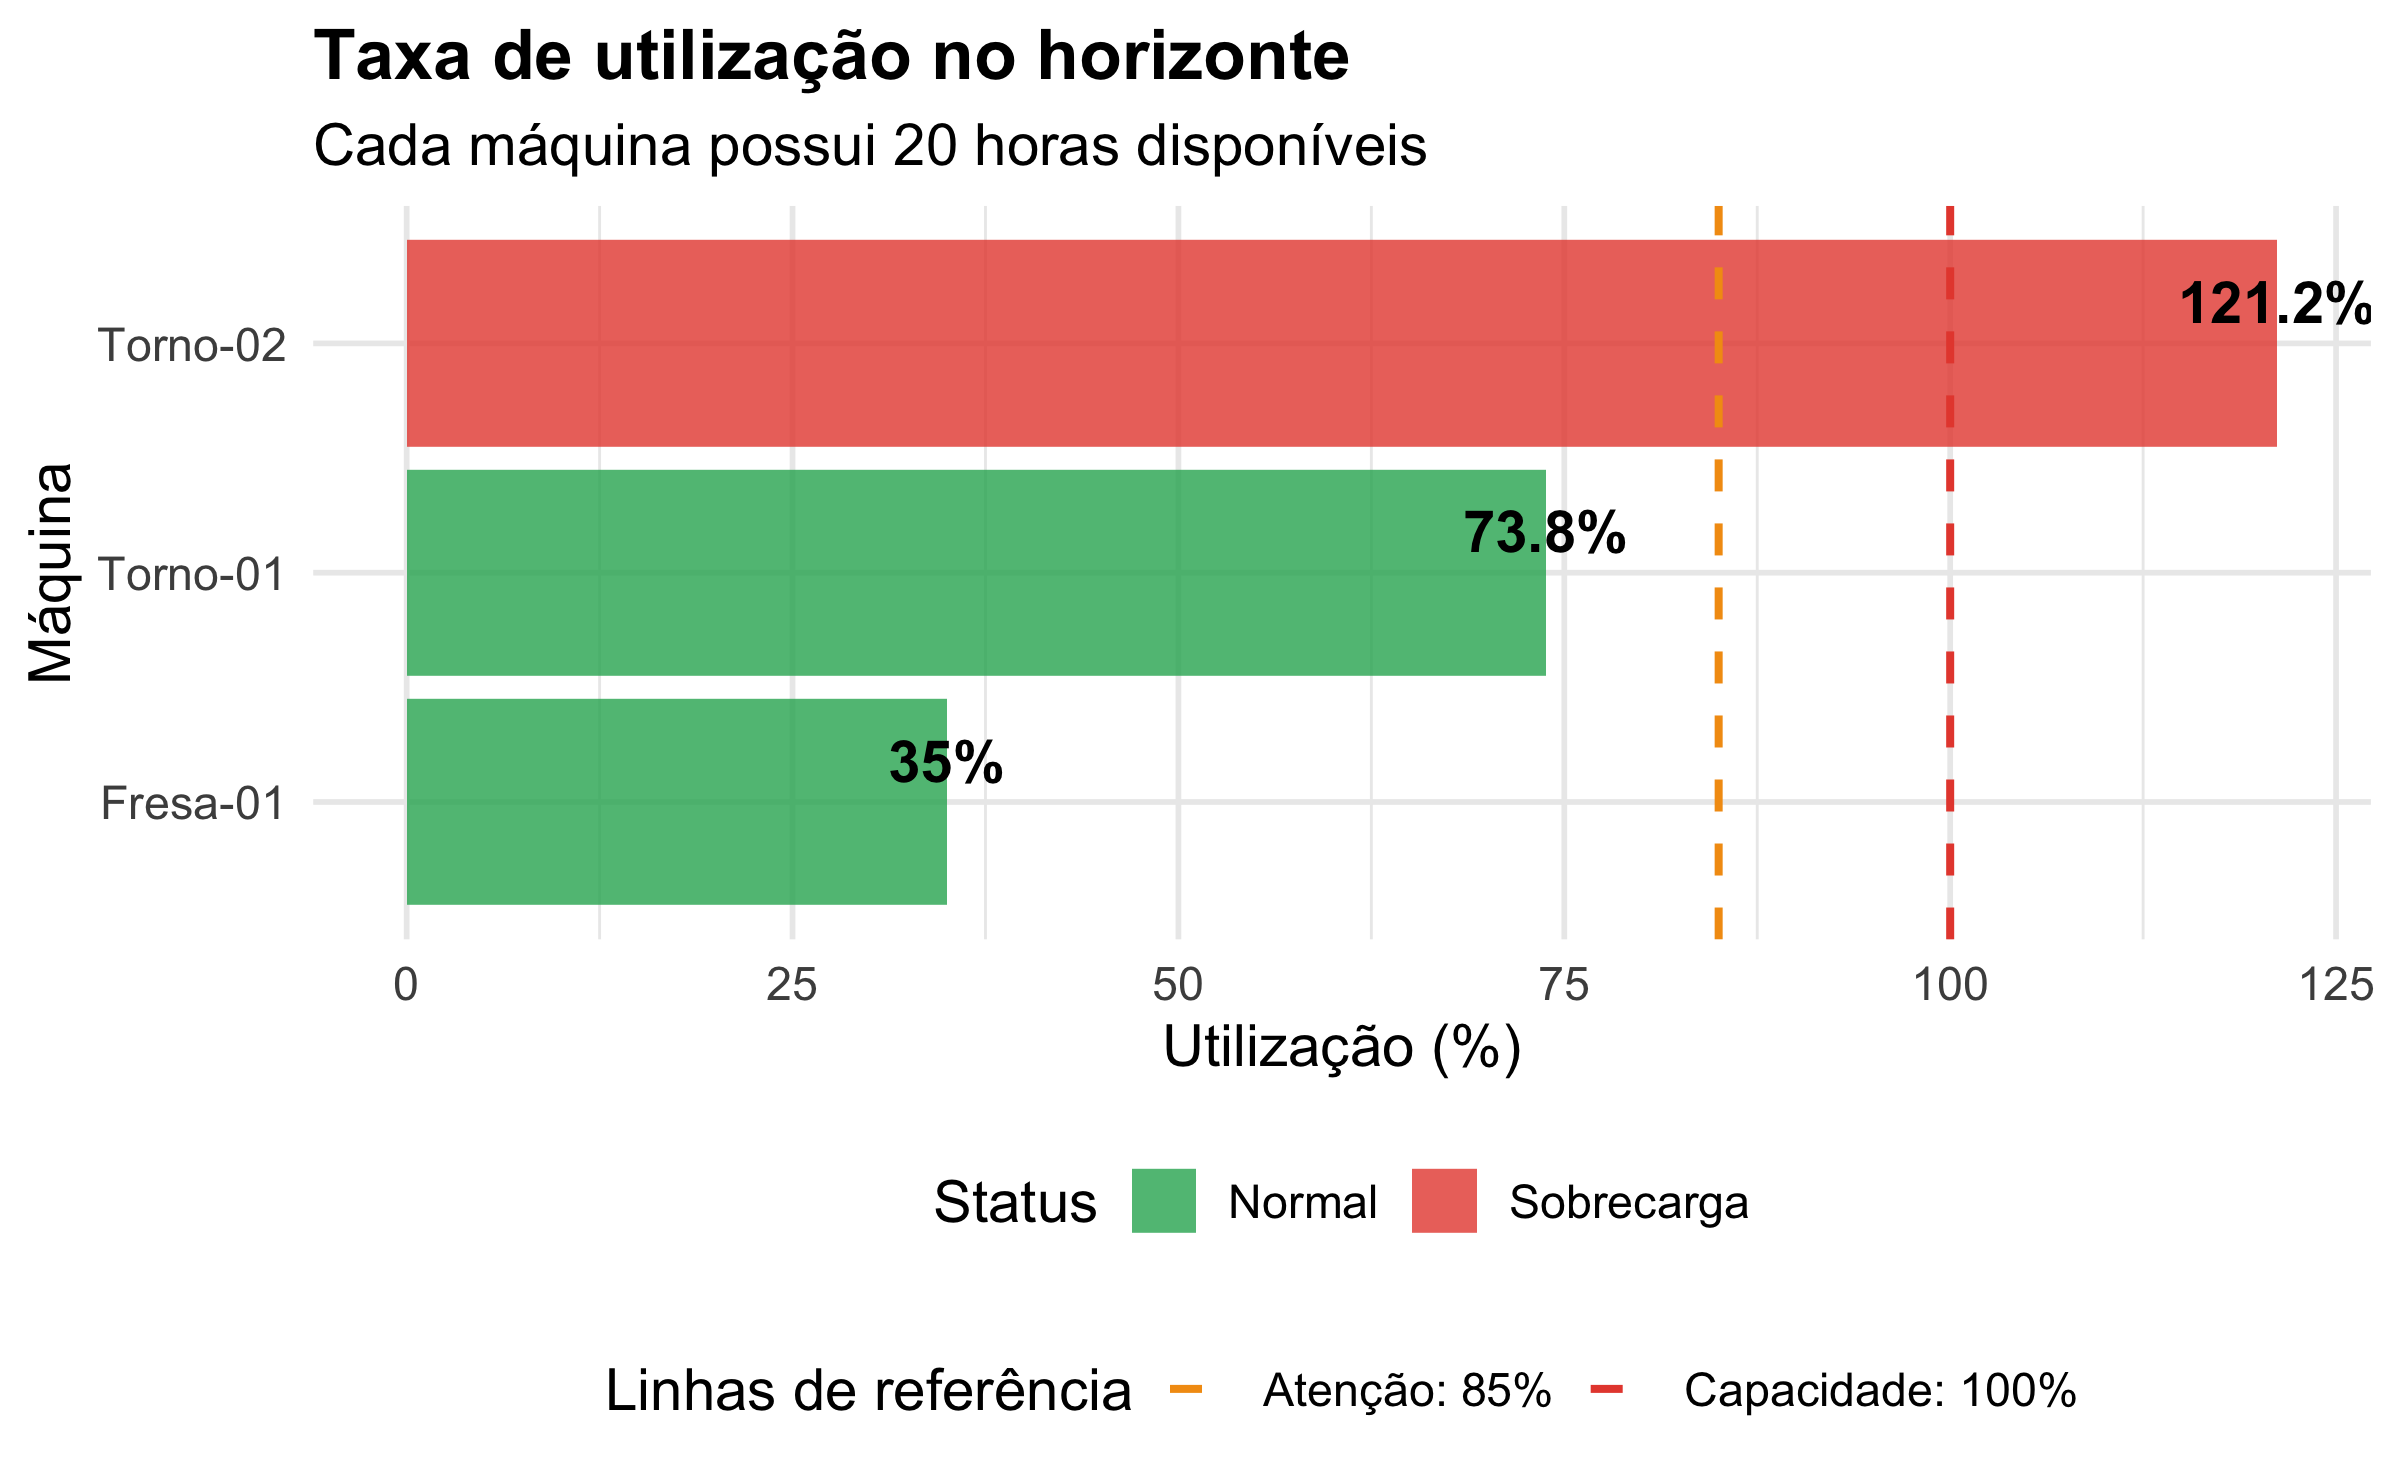
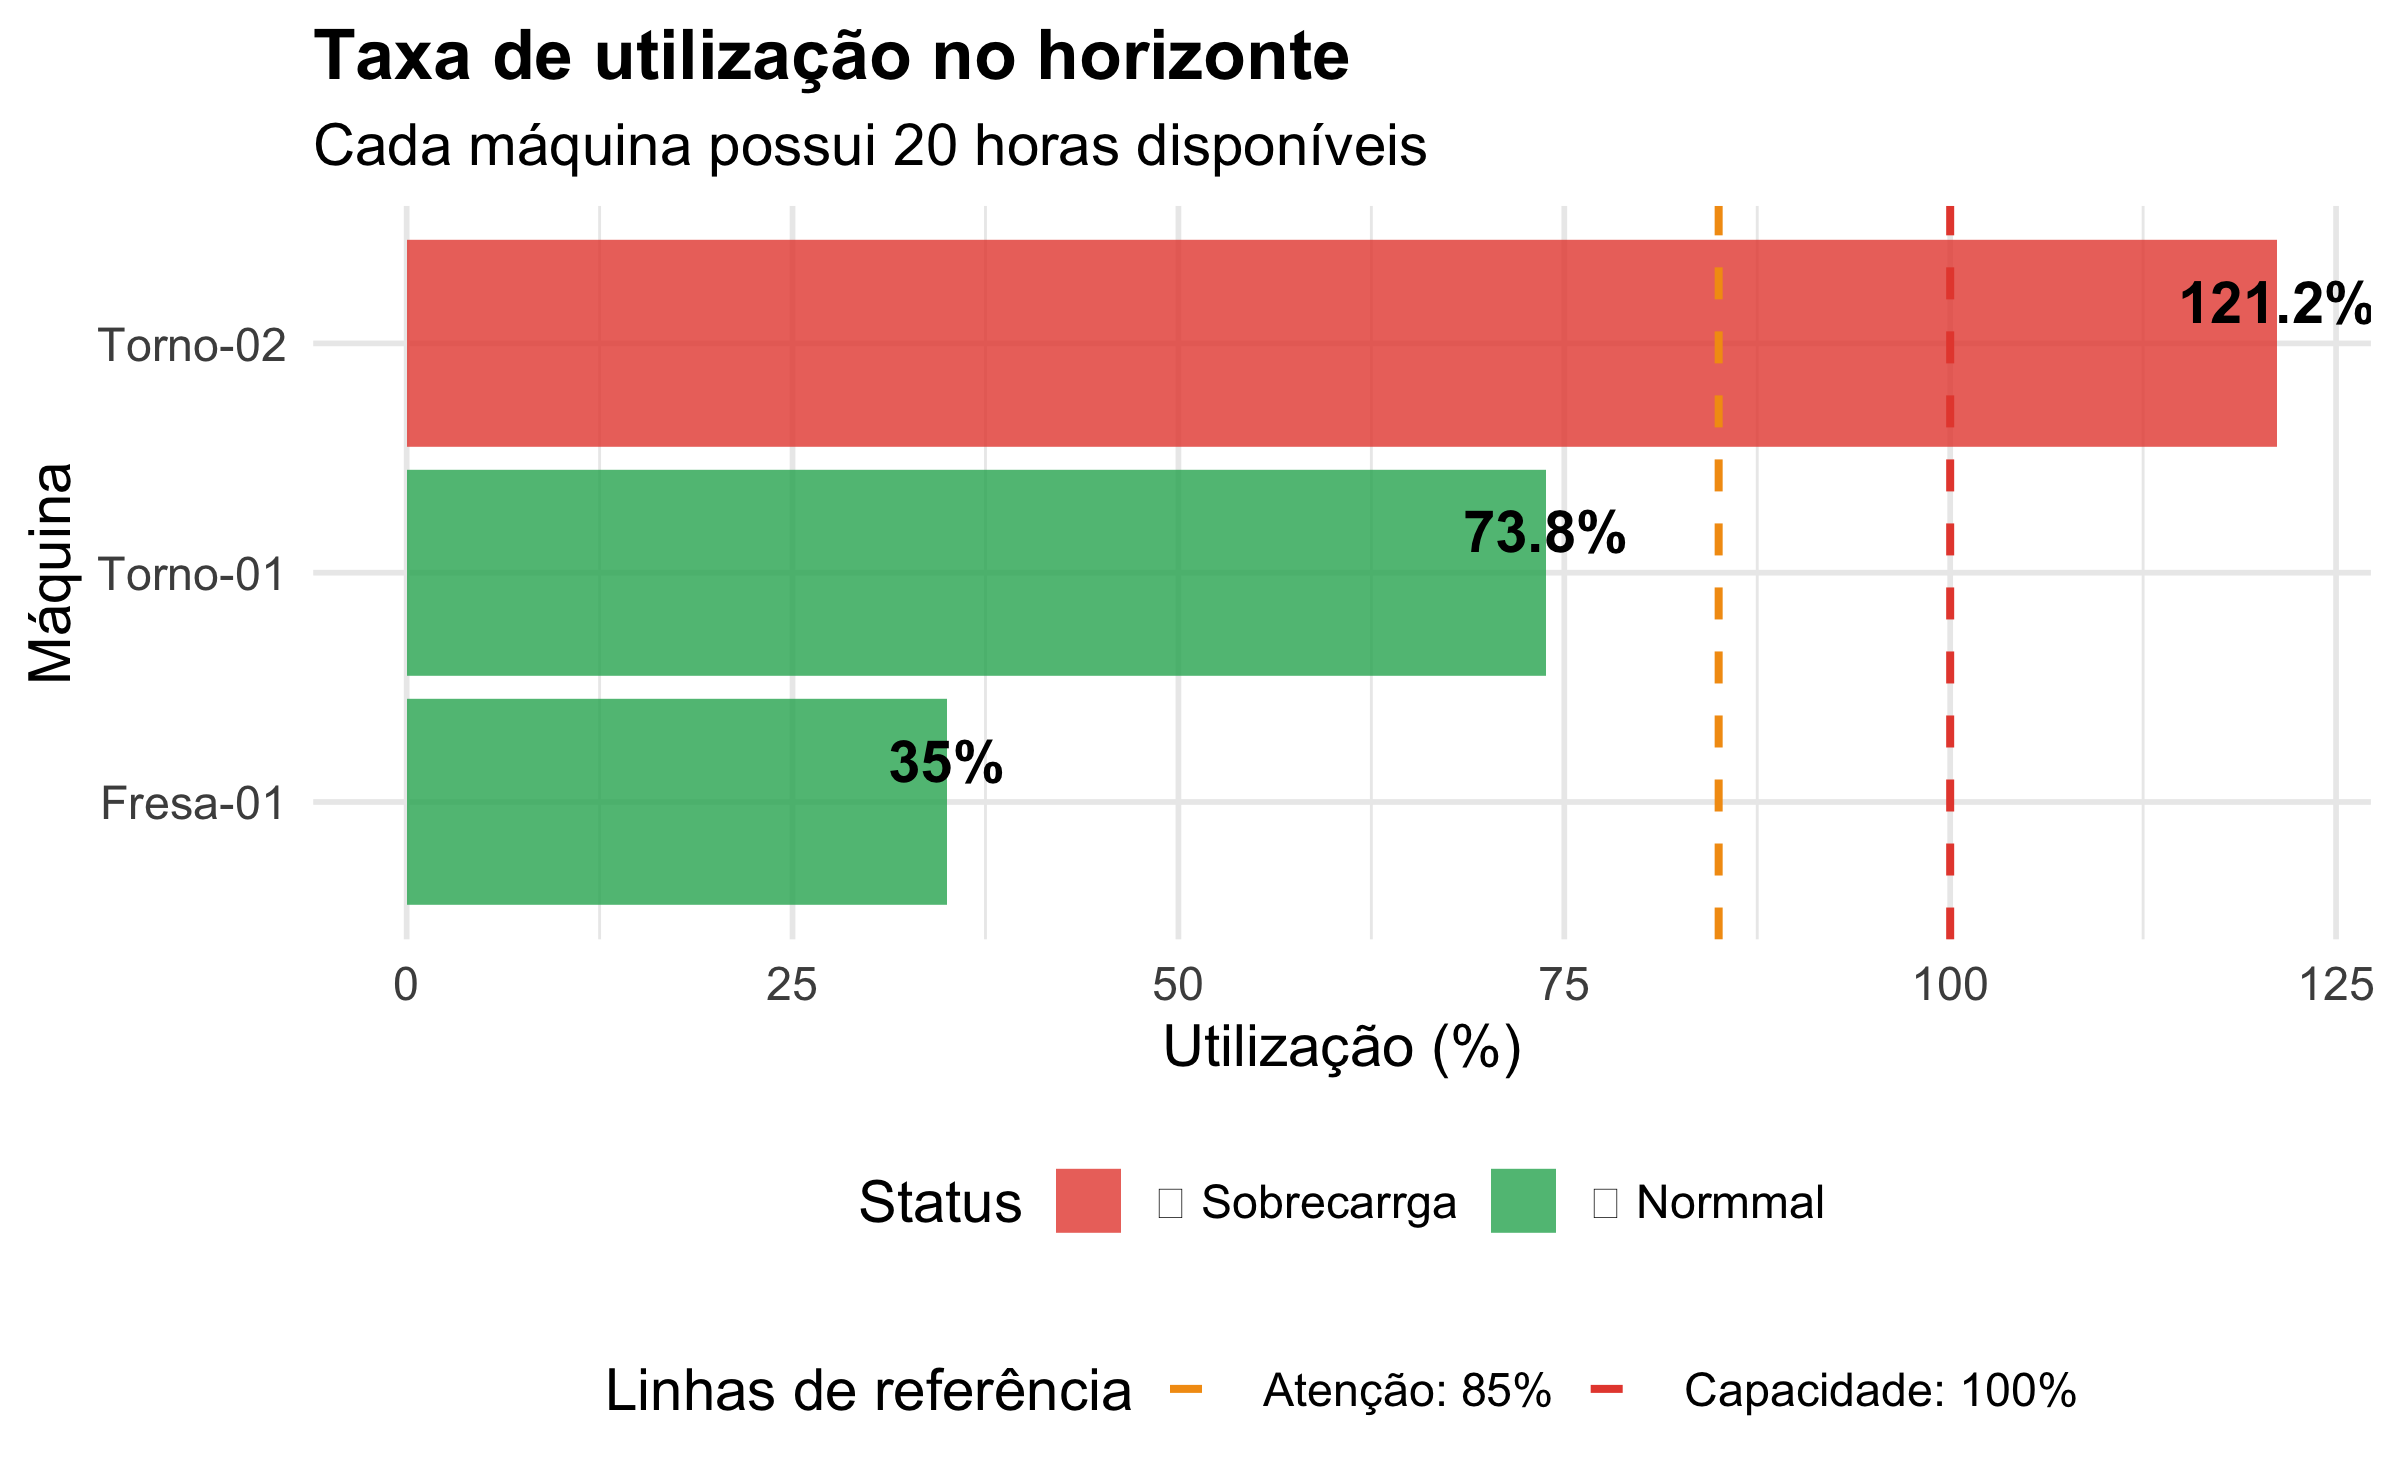
aula7

Changed region(s): [[0.3438, 0.7755, 0.75, 0.8375]]

diff --git a/index.html b/index.html
@@ -11,7 +11,7 @@
     <script src="libs/panelset/panelset.js"></script>
     <link href="libs/tile-view/tile-view.css" rel="stylesheet" />
     <script src="libs/tile-view/tile-view.js"></script>
-    <script type="application/json" id="xaringanExtra-editable-docid">{"id":"c66006e7e0d443c4bb6136cabe2f56c1","expires":1}</script>
+    <script type="application/json" id="xaringanExtra-editable-docid">{"id":"ee6c35f41b4d4fdb9b4bb5933024c414","expires":1}</script>
     <script src="libs/himalaya/himalaya.js"></script>
     <script src="libs/js-cookie/js.cookie.js"></script>
     <link href="libs/editable/editable.css" rel="stylesheet" />
@@ -115,11 +115,11 @@ Programação operacional. Máquina livre não basta: precedência, material, fe
 .pull-left[
 ## Ao final da aula
 
-- interpretar um roteiro de produção;
-- calcular carga por ordem e por máquina;
-- aplicar FIFO, MTP, MDE e MFE;
-- comparar fluxo, atraso e utilização;
-- recomendar uma programação coerente com o objetivo.
+- ✅ interpretar um roteiro de produção;
+- ✅ calcular carga por ordem e por máquina;
+- ✅ aplicar FIFO, MTP, MDE e MFE;
+- ✅ comparar fluxo, atraso e utilização;
+- ✅ recomendar uma programação coerente com o objetivo.
 
 ]
 
@@ -318,15 +318,15 @@ Processo de **determinar a ordem** em que os trabalhos/tarefas serão processado
 ## Objetivos Principais:
 
 .pull-left[
-- **Minimizar tempo total** (makespan)
-- **Cumprir prazos** de entrega
-- **Reduzir custos** de estoque
+- ⏱ **Minimizar tempo total** (makespan)
+- 📅 **Cumprir prazos** de entrega
+- 💰 **Reduzir custos** de estoque
 ]
 
 .pull-right[
-- **Maximizar utilização** de máquinas
-- **Balancear carga** de trabalho
-- **Minimizar atrasos**
+- ⚙ **Maximizar utilização** de máquinas
+- 📊 **Balancear carga** de trabalho
+- 🎯 **Minimizar atrasos**
 ]
 
 ---
@@ -774,7 +774,7 @@ Onde:
    &lt;td style="text-align:right;"&gt; 7.00 &lt;/td&gt;
    &lt;td style="text-align:right;"&gt; 20 &lt;/td&gt;
    &lt;td style="text-align:right;"&gt; 35.0 &lt;/td&gt;
-   &lt;td style="text-align:left;"&gt; Normal &lt;/td&gt;
+   &lt;td style="text-align:left;"&gt; 🟢 Normal &lt;/td&gt;
   &lt;/tr&gt;
   &lt;tr&gt;
    &lt;td style="text-align:left;font-weight: bold;white-space: nowrap;"&gt; Torno-01 &lt;/td&gt;
@@ -784,7 +784,7 @@ Onde:
    &lt;td style="text-align:right;"&gt; 14.75 &lt;/td&gt;
    &lt;td style="text-align:right;"&gt; 20 &lt;/td&gt;
    &lt;td style="text-align:right;"&gt; 73.8 &lt;/td&gt;
-   &lt;td style="text-align:left;"&gt; Normal &lt;/td&gt;
+   &lt;td style="text-align:left;"&gt; 🟢 Normal &lt;/td&gt;
   &lt;/tr&gt;
   &lt;tr&gt;
    &lt;td style="text-align:left;font-weight: bold;white-space: nowrap;"&gt; Torno-02 &lt;/td&gt;
@@ -794,7 +794,7 @@ Onde:
    &lt;td style="text-align:right;"&gt; 24.25 &lt;/td&gt;
    &lt;td style="text-align:right;"&gt; 20 &lt;/td&gt;
    &lt;td style="text-align:right;"&gt; 121.2 &lt;/td&gt;
-   &lt;td style="text-align:left;"&gt; Sobrecarga &lt;/td&gt;
+   &lt;td style="text-align:left;"&gt; 🔴 Sobrecarga &lt;/td&gt;
   &lt;/tr&gt;
 &lt;/tbody&gt;
 &lt;/table&gt;&lt;/div&gt;
@@ -843,20 +843,20 @@ Possivelmente. Os dois produtos aparecem nos dois tornos. Confirmar programa CNC
 
 .pull-left[
 ### Quando há Sobrecarga:
-- **Realocação** de ordens
-- **Horas extras** programadas
-- **Subcontratação** externa
-- **Reprogramação** de prazos
-- **Investimento** em capacidade
+- 🔄 **Realocação** de ordens
+- ⏰ **Horas extras** programadas
+- 👥 **Subcontratação** externa
+- 📅 **Reprogramação** de prazos
+- 🆕 **Investimento** em capacidade
 ]
 
 .pull-right[
 ### Quando há Ociosidade:
-- **Antecipação** de produção
-- **Manutenção preventiva**
-- **Treinamento** de equipe
-- **Melhorias** de processo
-- **Busca** de novos pedidos
+- 📦 **Antecipação** de produção
+- 🔧 **Manutenção preventiva**
+- 📚 **Treinamento** de equipe
+- 🎯 **Melhorias** de processo
+- 🔍 **Busca** de novos pedidos
 ]
 
 ---
@@ -1216,15 +1216,15 @@ Uma fábrica recebeu cinco pedidos urgentes que devem passar por três máquinas
 
 .midi[
 ## Recomendações:
-- Reduzir setup em M1 libera margem para novas ordens.
-- Hora extra não é necessária pela carga agregada deste caso.
-- O programa ainda deve verificar conflitos simultâneos e precedências entre máquinas.
+- ✅ Reduzir setup em M1 libera margem para novas ordens.
+- ✅ Hora extra não é necessária pela carga agregada deste caso.
+- ✅ O programa ainda deve verificar conflitos simultâneos e precedências entre máquinas.
 ]
 
 ---
 
 
-# Ferramentas e alcance da programação
+# 🔧 Ferramentas e alcance da programação
 
 | Ferramenta | Uso adequado | Limitação principal |
 |---|---|---|
@@ -1242,33 +1242,33 @@ Uma fábrica recebeu cinco pedidos urgentes que devem passar por três máquinas
 .midi[
 .pull-left[
 ## Planejamento
-- **Dados precisos:** tempos, capacidades e restrições
-- **Comunicação:** integração entre PCP, produção e vendas
-- **Flexibilidade:** contingências previstas
-- **Documentação:** registro de decisões e mudanças
+- ✅ **Dados precisos:** tempos, capacidades e restrições
+- ✅ **Comunicação:** integração entre PCP, produção e vendas
+- ✅ **Flexibilidade:** contingências previstas
+- ✅ **Documentação:** registro de decisões e mudanças
 
 ## Execução
-- **Monitoramento:** acompanhar o progresso real
-- **Agilidade:** reagir a imprevistos
-- **Priorização:** concentrar atenção no trabalho crítico
+- ✅ **Monitoramento:** acompanhar o progresso real
+- ✅ **Agilidade:** reagir a imprevistos
+- ✅ **Priorização:** concentrar atenção no trabalho crítico
 ]
 
 .pull-right[
 ## Análise
-- **KPIs claros:** utilização e pontualidade
-- **Revisões:** analisar desvios periodicamente
-- **Melhoria contínua:** ajustar métodos
+- ✅ **KPIs claros:** utilização e pontualidade
+- ✅ **Revisões:** analisar desvios periodicamente
+- ✅ **Melhoria contínua:** ajustar métodos
 
 ## Tecnologia
-- **Automatização:** reduzir trabalho manual
-- **Integração:** conectar os sistemas envolvidos
-- **Visualização:** acompanhar o programa em tempo real
-- **Contingência:** manter alternativas preparadas
+- ✅ **Automatização:** reduzir trabalho manual
+- ✅ **Integração:** conectar os sistemas envolvidos
+- ✅ **Visualização:** acompanhar o programa em tempo real
+- ✅ **Contingência:** manter alternativas preparadas
 ]
 ]
 ---
 
-# Principais KPIs
+# 📊 Principais KPIs
 &lt;table class="kpi-table table table-striped table-hover" style="font-size: 27px; margin-left: auto; margin-right: auto;"&gt;
  &lt;thead&gt;
   &lt;tr&gt;
@@ -1353,18 +1353,18 @@ Uma meta única, como 80%, pode induzir decisões inadequadas. O gargalo determi
 # Conceitos centrais
 .midi[
 .pull-left[
-## Roteiro de produção
+## 📋 Roteiro de produção
 - Documento técnico que define **sequência**, **máquinas**, **tempos** e **precedências**
 - Base para planejamento e controle
 - Deve ser mantido atualizado
 
-## Sequenciamento
+## 🔢 Sequenciamento
 - Ordem de execução das tarefas
 - Regras: **MTP**, **FIFO**, **MDE** e **MFE**
 - Impacto direto em **prazos** e **custos**
 ]
 .pull-right[
-## Carga de máquinas
+## ⚙ Carga de máquinas
 - Balanceamento entre **demanda** e **capacidade**
 - Identificação de **gargalos** e **ociosidades**
 - Decisões sobre **horas extras**, **subcontratação**, **investimentos**
@@ -1388,7 +1388,7 @@ Uma meta única, como 80%, pode induzir decisões inadequadas. O gargalo determi
 
 .midi[
 .pull-left[
-## Livros recomendados
+## 📚 Livros recomendados
 - **Administração da Produção** - Slack, Chambers &amp; Johnston
 - **Factory Physics** - Hopp &amp; Spearman  
 - **Theory of Constraints** - Goldratt
@@ -1396,13 +1396,13 @@ Uma meta única, como 80%, pode induzir decisões inadequadas. O gargalo determi
 ]
 .pull-right[
 
-## Recursos online
+## 🌐 Recursos online
 - APICS (Association for Supply Chain Management)
 - ISE Magazine (Institute of Industrial Engineers)
 - R for Operations Research
 - Coursera: Operations Management
 
-## Próximos passos
+## 🎓 Próximos passos
 - Simulação de eventos discretos
 - Programação linear e otimização
 - Teoria das Restrições (TOC)

diff --git a/README.md b/README.md
@@ -87,6 +87,12 @@ a capacidade dos recursos.
 - revisão da meta de utilização nos KPIs, substituindo o limite universal de
   80% por uma faixa definida conforme o papel do recurso e explicando a
   diferença entre gargalos e recursos não gargalo.
+- reinserção dos emoticons da versão original nos objetivos, critérios de
+  sequenciamento, status de carga, estratégias, recomendações, boas práticas
+  e síntese da aula.
+- comparação com a apresentação pública e com o histórico original do projeto,
+  restaurando os ícones de ferramentas e conteúdo analítico nos títulos
+  equivalentes da versão atual.
 
 ## Convenções dos exemplos
 
